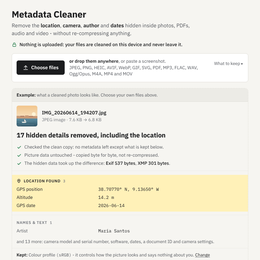
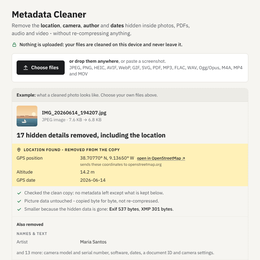
Metadata Cleaner: remove location, camera and author without re-encoding
What it does: finds the hidden details in photos (JPEG, PNG, HEIC, AVIF,
WebP, GIF), SVG, PDF, audio (MP3, FLAC, WAV, Ogg/Opus, M4A) and video (MP4,
MOV), shows them grouped by what they give away, and hands back a copy
without them.

What changed for the person using it: the old page re-encoded every image
through a canvas (lower quality, lost GIF animation, rotated pixels, colour
shift), cleaned only MP3 among audio, failed on any PDF with keywords, and
showed "No EXIF data" for every PNG, WebP and GIF that had some. Now the
metadata blocks are left out of the file structure and the picture or sound
bytes are copied unchanged; the copy is read again to prove nothing is left.
Several files at once, a zip for all, paste, drop anywhere, a worked example
on arrival, and the location shown first with a labelled map link.

Why it looks this way: a dossier being redacted. The result (what was found
and that it is gone) is the page; location gets the one highlight colour
because it is what people come for; red is kept for failures only.

Claude-Session: https://claude.ai/code/session_01PtGPtaaHkk2Yb6gvYsRFA5

diff --git a/tools/metadata_cleaner.html b/tools/metadata_cleaner.html
@@ -53,12 +53,12 @@ button, .btn { font: inherit; cursor: pointer; }
 .under { display: flex; justify-content: space-between; align-items: center; gap: 12px; margin: 6px 2px 16px; font-size: 13px; color: var(--ink-3); }
 .private { display: flex; align-items: flex-start; gap: 8px; margin: -6px 0 16px; font-size: 14.5px; font-weight: 500; color: var(--ink); }
 .private svg { width: 16px; height: 16px; flex: none; margin-top: 3px; color: var(--ok); }
-details.opts { position: relative; margin-left: auto; align-self: flex-start; font-size: 13.5px; flex: none; }
+details.opts { position: relative; margin: 18px 2px 0; font-size: 13.5px; }
 details.opts summary { cursor: pointer; color: var(--ink-2); list-style: none; padding: 6px 2px; border-radius: 4px; }
 details.opts summary::-webkit-details-marker { display: none; }
 details.opts summary::after { content: ' ▾'; font-size: 11px; }
 details.opts[open] summary::after { content: ' ▴'; }
-.optbox { position: absolute; right: 0; top: 100%; z-index: 5; width: min(340px, calc(100vw - 32px)); background: var(--card); border: 1px solid var(--rule); border-radius: 8px; padding: 12px 14px; box-shadow: 0 8px 28px rgba(0,0,0,.12); color: var(--ink); font-size: 14px; }
+.optbox { position: absolute; left: 0; top: 100%; z-index: 5; width: min(340px, calc(100vw - 32px)); background: var(--card); border: 1px solid var(--rule); border-radius: 8px; padding: 12px 14px; box-shadow: 0 8px 28px rgba(0,0,0,.12); color: var(--ink); font-size: 14px; }
 .optbox label { display: flex; gap: 10px; align-items: flex-start; padding: 6px 0; cursor: pointer; }
 .optbox input { width: 18px; height: 18px; margin: 2px 0 0; accent-color: var(--ink); flex: none; }
 .optbox small { display: block; color: var(--ink-3); font-size: 12.5px; }
@@ -103,6 +103,12 @@ details.fold[open] > summary::before { content: '− '; }
 .headline { margin: 0; font-size: 20px; line-height: 1.25; font-weight: 700; letter-spacing: -0.005em; flex: 1 1 260px; }
 .headline .loc { }
 .actions { display: flex; gap: 8px; flex: none; }
+.maphint { display: block; font-size: 12px; color: var(--ink-3); }
+.grp.location .maphint { color: var(--mark-ink); opacity: .75; }
+.maplink { font: 500 12.5px var(--sans); margin-left: 6px; white-space: nowrap; color: var(--mark-ink); }
+.groups.loc-first { border-top: 0; padding-top: 0; }
+.groups.loc-first .grp.location { margin-top: 0; }
+.unchecked { display: block; margin-top: 4px; color: var(--ink-2); font-size: 13.5px; }
 .checks { list-style: none; margin: 0; padding: 0 14px 12px; display: grid; gap: 4px; font-size: 14px; color: var(--ink-2); }
 .checks li { display: flex; gap: 8px; align-items: flex-start; }
 .checks svg { width: 16px; height: 16px; flex: none; margin-top: 3px; color: var(--ok); }
@@ -113,19 +119,21 @@ details.fold[open] > summary::before { content: '− '; }
 .groups { border-top: 1px solid var(--rule-2); padding: 4px 14px 10px; }
 .grp { padding: 10px 0 4px; }
 .grp + .grp { border-top: 1px solid var(--rule-2); }
+.gh { margin: 10px 0 0; font-size: 13px; font-weight: 600; color: var(--ink); }
 .grp h3 { margin: 0 0 6px; font-size: 12px; letter-spacing: .07em; text-transform: uppercase; color: var(--ink-3); font-weight: 600; display: flex; gap: 8px; align-items: center; }
 .grp.location h3 { color: var(--mark-ink); }
 .grp.location h3 svg { width: 14px; height: 14px; }
 .grp h3 .n { font: 500 11px var(--mono); color: var(--ink-3); letter-spacing: 0; }
-dl { margin: 0; display: grid; grid-template-columns: minmax(120px, 34%) 1fr; column-gap: 14px; row-gap: 4px; font-size: 14px; }
+dl { margin: 0; display: grid; grid-template-columns: minmax(130px, 26%) 1fr; column-gap: 14px; row-gap: 4px; font-size: 14px; }
 dt { color: var(--ink-2); }
-dd { margin: 0; font: 400 13.5px/1.5 var(--mono); color: var(--ink); overflow-wrap: anywhere; position: relative; }
+dd { margin: 0; font: 400 14px/1.5 var(--sans); color: var(--ink); overflow-wrap: anywhere; position: relative; }
 dd .v { position: relative; }
+dd { font-variant-numeric: tabular-nums; }
 .grp.location dd, .grp.location dt { color: var(--mark-ink); }
 .grp.location { background: var(--mark); margin: 8px -14px 0; padding: 10px 14px 8px; border-top: 0 !important; }
 .grp.location + .grp { border-top: 0; }
 dd .v::after { content: ''; position: absolute; left: -2px; right: -2px; top: 2px; bottom: 2px; background: var(--bar); border-radius: 2px; transform-origin: left; transform: scaleX(0); opacity: 0; }
-.fresh dd .v::after { animation: redact 1.1s cubic-bezier(.6,0,.2,1) both; animation-delay: calc(var(--i, 0) * 45ms); }
+.fresh dd .v::after { animation: redact .8s cubic-bezier(.6,0,.2,1) both; animation-delay: calc(var(--i, 0) * 45ms); }
 @keyframes redact { 0% { transform: scaleX(0); opacity: .92; } 45% { transform: scaleX(1); opacity: .92; } 70% { transform: scaleX(1); opacity: .92; } 100% { transform: scaleX(1); opacity: 0; } }
 @media (prefers-reduced-motion: reduce) { .fresh dd .v::after { animation: none; } .drop { transition: none; } }
 details.more summary { cursor: pointer; font-size: 14px; color: var(--ink-2); padding: 8px 0; list-style: none; }
@@ -163,7 +171,6 @@ footer a { color: inherit; }
     .drop { flex-direction: column; align-items: stretch; text-align: center; gap: 8px; padding: 12px; }
     .drop .pick { width: 100%; min-height: 50px; font-size: 16px; }
     .drop .hint-desk { display: none; }
-    details.opts { margin: 0 auto; align-self: center; }
     .batch .btns { width: 100%; }
     .batch #zipAll { flex: 1; }
     .headline { font-size: 18px; flex-basis: 100%; }
@@ -175,6 +182,7 @@ footer a { color: inherit; }
     .thumb { width: 52px; height: 52px; }
 }
 @media (min-width: 561px) { .hint-phone { display: none; } }
+@media (max-width: 560px) { .has-files .lede, .has-files .drop p { display: none; } .has-files .drop { flex-direction: row; } .has-files .drop .pick { width: auto; flex: 1; min-height: 46px; } }
 </style>
 </head>
 <body>
@@ -190,13 +198,6 @@ footer a { color: inherit; }
         </button>
         <p><span class="hint-desk"><b>or drop them anywhere</b>, or paste a screenshot.<br></span><span id="fmts">JPEG, PNG, HEIC, AVIF, WebP, GIF, SVG, PDF, MP3, FLAC, WAV, Ogg/Opus, M4A, MP4 and MOV</span></p>
         <input type="file" id="file" multiple hidden>
-        <details class="opts" id="opts">
-            <summary>What to keep</summary>
-            <div class="optbox">
-                <label><input type="checkbox" id="o-orient" checked><span>Keep photo orientation<small>Without it, some photos show sideways. It reveals nothing about you.</small></span></label>
-                <label><input type="checkbox" id="o-color" checked><span>Keep colour profile<small>Without it, colours can look duller. It names a colour space, not a person.</small></span></label>
-            </div>
-        </details>
     </div>
 
     <div class="batch" id="batch" aria-live="off">
@@ -205,8 +206,16 @@ footer a { color: inherit; }
     </div>
     <section id="list" aria-label="Files"></section>
     <p class="sr" id="live" aria-live="polite"></p>
+    <details class="opts" id="opts">
+            <summary>Settings: keep photo orientation and colour profile</summary>
+            <div class="optbox">
+                <label><input type="checkbox" id="o-orient" checked><span>Keep photo orientation<small>Without it, some photos show sideways. It reveals nothing about you.</small></span></label>
+                <label><input type="checkbox" id="o-color" checked><span>Keep colour profile<small>Without it, colours can look duller. It names a colour space, not a person.</small></span></label>
+            </div>
+        </details>
 
-    <details class="method"><summary><b>How it works:</b> metadata blocks are left out of the copy, the picture or sound bytes are copied unchanged.</summary><p>Each file's structure is read in your browser. Its metadata blocks (Exif, GPS, XMP, IPTC, comments, ID3 and other tags, PDF document info, comment authors and earlier revisions) are left out of the copy, and the picture or sound data is copied byte for byte, so nothing is re-compressed. The copy is then read again to check that nothing is left; you can confirm it with exiftool or your computer's file-info panel. Video and HEIC metadata is overwritten with zeros in place, so the file keeps its size. Nothing is kept after you close the page.</p></details>
+
+    <details class="method"><summary><b>How it works:</b> hidden details are left out of a copy, which is then checked again. Pictures and sound are not re-compressed; PDFs are rewritten with their pages kept.</summary><p>Each file's structure is read in your browser. Its metadata blocks (Exif, GPS, XMP, IPTC, comments, ID3 and other tags, PDF document info, comment authors and earlier revisions) are left out of the copy, and the picture or sound data is copied byte for byte, so nothing is re-compressed. The copy is then read again to check that nothing is left; you can confirm it with exiftool or your computer's file-info panel. Video and HEIC metadata is overwritten with zeros in place, so the file keeps its size. Nothing is kept after you close the page.</p></details>
     <footer>A <a href="https://www.gptgames.dev/">gptgames.dev</a> tool.</footer>
 </main>
 <script id="core">
@@ -369,7 +378,7 @@ var MetaClean = (function () {
                 var t = TAGS[tag];
                 if (t === null) continue;
                 var s = show(tag, v, type);
-                if (t) res.fields.push(F(t[0], t[1], s));
+                if (t) res.fields.push(F(t[0], tag === 0x0131 && /^\d+(\.\d+)*$/.test(s) ? 'Software version' : t[1], s));
                 else res.fields.push(F('technical', 'Tag 0x' + tag.toString(16).toUpperCase().padStart(4, '0'), s));
             }
             if (kind === 'ifd0' && p + 2 + n * 12 + 4 <= end) {
@@ -1473,11 +1482,11 @@ var MetaClean = (function () {
         if (piece) fields.push(withWhere(F('hidden', 'Private editing data (PieceInfo)', piece + ' block' + (piece > 1 ? 's' : '')), 'PDF'));
         if (imgMeta) fields.push(withWhere(F(gpsImgs ? 'location' : 'hidden', 'Photo metadata inside embedded images', imgMeta + ' image' + (imgMeta > 1 ? 's' : '') + (gpsImgs ? ', ' + gpsImgs + ' with GPS position' : '')), 'Images'));
         var raw = latin1(b, 0, b.length), eofs = (raw.match(/%%EOF/g) || []).length - (/\/Linearized/.test(raw.slice(0, 2048)) ? 1 : 0);
-        if (eofs > 1) fields.push(withWhere(F('hidden', 'Earlier saved versions still inside the file', (eofs - 1) + ' earlier version' + (eofs > 2 ? 's' : '') + ' (old text and details can be recovered)'), 'Revisions'));
+        if (eofs > 1) fields.push(withWhere(F('hidden', 'Earlier saved versions', (eofs - 1) + ' (their old text could have been recovered)'), 'Revisions'));
         if (ctx.trailerInfo.ID) fields.push(withWhere(F('hidden', 'Document ID', 'links copies of this file'), 'Trailer'));
         var notes = [];
         if (signed) notes.push('This PDF is digitally signed. Cleaning changes the file, so the signature will no longer be valid.');
-        return {fields: fields, kept: [], orientation: 0, notes: notes};
+        return {fields: fields, kept: [], orientation: 0, notes: notes, pages: doc.getPageCount()};
     }
     async function cleanPdf(b, deps) {
         var P = deps.PDFLib, doc = await pdfOpen(b, P), ctx = doc.context, N = function (n) { return P.PDFName.of(n); };
@@ -1512,6 +1521,8 @@ var MetaClean = (function () {
             if (x && x.dict instanceof P.PDFDict) stack.push(x.dict);
         }
         ctx.enumerateIndirectObjects().forEach(function (pair) { if (!keep.has(pair[0].toString())) ctx.delete(pair[0]); });
+        var top = 0; ctx.enumerateIndirectObjects().forEach(function (pair) { if (pair[0].objectNumber > top) top = pair[0].objectNumber; });
+        ctx.largestObjectNumber = top;
         var out = await doc.save({useObjectStreams: false, updateFieldAppearances: false, addDefaultPage: false});
         return out;
     }
@@ -1578,6 +1589,7 @@ var MetaClean = (function () {
     var SUPPORTED = 'photos (JPEG, PNG, HEIC, AVIF, WebP, GIF), SVG, PDF, audio (MP3, FLAC, WAV, Ogg, Opus, M4A) and video (MP4, MOV)';
     function textOf(b) { return utf8(b, 0, b.length); }
 
+    var EXTS = {jpeg: ['jpg', 'jpeg', 'jpe', 'jfif'], png: ['png', 'apng'], heic: ['heic', 'heif', 'hif'], avif: ['avif'], mp4: ['mp4', 'm4v', '3gp', '3g2'], ogg: ['ogg', 'oga', 'opus'], m4a: ['m4a', 'm4b', 'aac', 'mp4'], mov: ['mov', 'qt', 'mp4'], svg: ['svg'], webp: ['webp'], gif: ['gif'], pdf: ['pdf'], mp3: ['mp3'], flac: ['flac'], wav: ['wav', 'wave']};
     async function inspect(b, name, deps) {
         var fmt = detect(b, name);
         if (!fmt) throw Bad(whyUnsupported(b, name));
@@ -1598,8 +1610,8 @@ var MetaClean = (function () {
         }
         r.format = fmt; r.info = FORMATS[fmt]; r.notes = r.notes || [];
         var ext = String(name || '').toLowerCase().replace(/^.*\./, '');
-        var exts = {jpeg: ['jpg', 'jpeg', 'jpe', 'jfif'], heic: ['heic', 'heif', 'hif'], mp4: ['mp4', 'm4v', '3gp', '3g2'], ogg: ['ogg', 'oga', 'opus'], m4a: ['m4a', 'm4b', 'aac', 'mp4'], mov: ['mov', 'qt', 'mp4']}[fmt] || [FORMATS[fmt].ext];
-        if (name && /\./.test(name) && exts.indexOf(ext) < 0) r.notes.push('The name ends in .' + ext + ' but the file is really a ' + FORMATS[fmt].label + '. It was cleaned as ' + FORMATS[fmt].label.replace(/ \w+$/, '') + '.');
+        var exts = EXTS[fmt] || [FORMATS[fmt].ext];
+        if (name && /\./.test(name) && exts.indexOf(ext) < 0) r.notes.push('The name ends in .' + ext + ' but the file is really a ' + FORMATS[fmt].label + '. It was cleaned as ' + FORMATS[fmt].label.replace(/ \w+$/, '') + ' and the copy is named .' + FORMATS[fmt].ext + '.');
         return r;
     }
     var DEFAULTS = {keepOrientation: true, keepColor: true};
@@ -1629,7 +1641,7 @@ var MetaClean = (function () {
         var leftover = after.fields.filter(function (f) { return f.label !== 'Orientation'; });
         return {
             format: before.format, info: before.info, input: b.length, output: out, bytes: out,
-            removed: before.fields, kept: kept, pieces: breakdown(b, before.format, opt), left: leftover, gps: before.gps || null, notes: before.notes.concat(after === null ? [] : []),
+            removed: before.fields, kept: kept, pages: before.pages ? [before.pages, after.pages] : null, pieces: breakdown(b, before.format, opt), left: leftover, gps: before.gps || null, notes: before.notes.concat(after === null ? [] : []),
             changed: out.length !== b.length || !sameBytes(out, b)
         };
     }
@@ -1695,6 +1707,8 @@ var MetaClean = (function () {
     function cleanName(name, fmt) {
         name = String(name || 'file');
         var m = /^(.*?)(\.[^.]*)?$/.exec(name), base = m[1] || 'file', ext = m[2] || (fmt && FORMATS[fmt] ? '.' + FORMATS[fmt].ext : '');
+        // a file whose extension lies about its content gets the right one, so it opens everywhere
+        if (fmt && FORMATS[fmt] && m[2] && EXTS[fmt] && EXTS[fmt].indexOf(m[2].slice(1).toLowerCase()) < 0) ext = '.' + FORMATS[fmt].ext;
         return 'clean_' + base + ext;
     }
     function zip(files) {
@@ -1818,7 +1832,7 @@ var MetaClean = (function () {
                 .then(function (r) {
                     var out = r.output.buffer.byteLength === r.output.length ? r.output : r.output.slice();
                     var same = MetaClean.sameImage(b, out, r.format);
-                    self.postMessage({id: m.id, ok: true, r: {format: r.format, info: r.info, input: r.input, removed: r.removed, kept: r.kept, left: r.left, notes: r.notes, changed: r.changed, same: same, gps: r.gps, pieces: r.pieces}, out: out.buffer}, [out.buffer]);
+                    self.postMessage({id: m.id, ok: true, r: {format: r.format, info: r.info, input: r.input, removed: r.removed, kept: r.kept, left: r.left, notes: r.notes, changed: r.changed, same: same, gps: r.gps, pieces: r.pieces, pages: r.pages}, out: out.buffer}, [out.buffer]);
                 })
                 .catch(function (e) { self.postMessage({id: m.id, ok: false, error: e && e.userFacing ? e.message : 'This file could not be read - it may be damaged. (' + (e && e.message || e) + ')', userFacing: !!(e && e.userFacing)}); });
         };
@@ -1858,7 +1872,7 @@ var MetaClean = (function () {
         if (!example) items.filter(function (x) { return x.example; }).forEach(remove);
         // a second file arrives: fold the cards already shown, so a list of files stays a list
         if (!example && items.filter(function (x) { return !x.example; }).length === 2) items.forEach(function (x) { if (x !== it && x.result && x.out) done(x, false); });
-        working(it, 'Reading…');
+        working(it, file.size > 20e6 ? 'Opening ' + MetaClean.kb(file.size) + '…' : 'Reading…');
         file.arrayBuffer().then(function (buf) { it.input = buf; run(it, true); }, function () {
             failed(it, file.size > 1.5e9 ? 'This file is too large for your browser to open (' + MetaClean.kb(file.size) + '). Try a desktop browser with more memory.' : 'This file could not be opened.');
         });
@@ -1877,8 +1891,9 @@ var MetaClean = (function () {
     function run(it, fresh) {
         var id = ++seq, copy = it.input.slice(0);
         it.job = id;
-        var slow = setTimeout(function () { if (it.job === id && !it.result) working(it, 'Cleaning…', true); }, 250);
-        if (!it.result) working(it, 'Cleaning…', false);
+        var big = it.input.byteLength > 20e6, msg = big ? 'Cleaning ' + MetaClean.kb(it.input.byteLength) + ' - usually a few seconds…' : 'Cleaning…';
+        var slow = setTimeout(function () { if (it.job === id && !it.result) working(it, msg, true); }, 250);
+        if (!it.result) working(it, msg, big);
         jobs[id] = {
             stage: function (s) { if (it.job === id) working(it, s, true); },
             ok: function (m) {
@@ -1901,7 +1916,12 @@ var MetaClean = (function () {
     function esc(s) { return String(s).replace(/[&<>"']/g, function (c) { return {'&': '&amp;', '<': '&lt;', '>': '&gt;', '"': '&quot;', "'": '&#39;'}[c]; }); }
     function head(it, fmtLabel) {
         var r = it.result, meta = esc(fmtLabel || '');
-        if (r) meta = '<span>' + esc(r.info.label) + '</span> · <span>' + esc(MetaClean.kb(r.input) + (it.out && it.out.length !== r.input ? ' → ' + MetaClean.kb(it.out.length) : '')) + '</span>';
+        if (r) {
+            var a = MetaClean.kb(r.input), b2 = it.out ? MetaClean.kb(it.out.length) : '', size = a;
+            if (it.out && it.out.length !== r.input) size = a + ' → ' + b2 + (a === b2 ? ' (' + MetaClean.kb(Math.abs(r.input - it.out.length)) + (it.out.length < r.input ? ' less' : ' more') + ')' : '');
+            else if (it.out) size = a + ' → ' + a + (r.removed.length ? ' (details blanked in place)' : '');
+            meta = '<span>' + esc(r.info.label) + '</span> <span>· ' + esc(size) + '</span>';
+        }
         else if (it.size) meta = esc(MetaClean.kb(it.size));
         var kind = r ? r.info.kind : 'file', ext = esc(((r && r.info.ext) || (it.name.indexOf('.') > 0 ? it.name.split('.').pop() : 'file')).slice(0, 4));
         var thumb = '<div class="thumb' + (it.thumbUrl ? ' img' : '') + '" aria-hidden="true">' + (it.thumbUrl ? '<img alt="" src="' + it.thumbUrl + '">' : (GLYPH[kind] || GLYPH.file) + '<span class="ext">' + ext + '</span>') + '</div>';
@@ -1931,7 +1951,7 @@ var MetaClean = (function () {
         it.el.className = 'card failed';
         if (!it.example) list.appendChild(it.el);
         it.el.removeAttribute('aria-busy');
-        it.el.innerHTML = head(it) + '<p class="err" role="alert"><b>Not cleaned.</b> ' + esc(msg) + '</p>';
+        it.el.innerHTML = head(it) + '<p class="err" role="alert"><b>Not cleaned.</b> ' + esc(msg) + (/cancel/i.test(msg) ? '' : ' <span class="unchecked">Its hidden details, if any, are still in it' + (items.filter(function (x) { return !x.example; }).length > 1 ? ', and it is not in the zip' : '') + '.</span>') + '</p>';
         bind(it);
         announce(it.name + ': not cleaned. ' + msg);
         batch();
@@ -1958,37 +1978,41 @@ var MetaClean = (function () {
         it.url = URL.createObjectURL(blob);
         it.outName = MetaClean.cleanName(it.name, r.format);
         if (r.info.kind === 'image' && !it.thumbUrl && r.format !== 'heic') it.thumbUrl = URL.createObjectURL(new Blob([it.out], {type: mime}));
-        var groups = '', locGroup = '', i = 0, moreN = 0;
+        var groups = '', locGroup = '', i = 0, moreN = 0, groupsHead = false;
         var many = items.filter(function (x) { return !x.example; }).length > 1;
         CATS.forEach(function (c) {
             var fs = removed.filter(function (f) { return f.cat === c[0]; });
             if (it.example && fs.length && c[0] !== 'location' && c[0] !== 'people') { moreN += fs.length; return; }
             if (!fs.length) return;
             var rows = fs.map(function (f) {
-                return '<dt>' + esc(f.label) + '</dt><dd><span class="v" style="--i:' + (i++) + '">' + (f.value ? esc(f.value) : '<span aria-hidden="true">present</span><span class="sr">present</span>') + '</span></dd>';
+                var map = '';
+                if (f.label === 'GPS position' && r.gps && f.value.indexOf('°') > 0) map = ' <a class="maplink" href="https://www.openstreetmap.org/?mlat=' + r.gps.lat.toFixed(5) + '&amp;mlon=' + r.gps.lon.toFixed(5) + '#map=15/' + r.gps.lat.toFixed(5) + '/' + r.gps.lon.toFixed(5) + '" target="_blank" rel="noopener noreferrer" title="Opens openstreetmap.org in a new tab - only these coordinates are sent, and only if you click">open in OpenStreetMap ↗</a><span class="maphint">sends these coordinates to openstreetmap.org</span>';
+                var mono = c[0] === 'location' || c[0] === 'time' || /serial|ID$|ID\b|identifier/i.test(f.label) || /^[-+0-9A-Fa-f:.,°\s\/]+( ?[NSEW]|UTC| m| s| mm)?[\s,0-9.°NSEW]*$/.test(f.value);
+                return '<dt>' + esc(f.label) + '</dt><dd' + (mono ? ' class="mono"' : '') + '><span class="v" style="--i:' + (i++) + '">' + (f.value ? esc(f.value) : '<span aria-hidden="true">present</span><span class="sr">present</span>') + '</span>' + map + '</dd>';
             }).join('');
             var body = '<dl>' + rows + '</dl>';
-            if (c[0] === 'location') { locGroup = '<div class="grp location"><h3>' + PIN + 'Location found <span class="n">' + fs.length + '</span></h3>' + body + '</div>'; return; }
+            if (c[0] === 'location') { locGroup = '<div class="grp location"><h3>' + PIN + 'Location found - removed from the copy</h3>' + body + '</div>'; return; }
             if (c[0] === 'technical' || (c[0] === 'hidden' && fs.length > 6)) {
-                groups += '<div class="grp ' + c[0] + '"><details class="more"><summary>' + esc(c[1]) + ' <span class="n">' + fs.length + '</span></summary>' + body + '</details></div>';
-            } else groups += '<div class="grp ' + c[0] + '"><h3>' + esc(c[1]) + ' <span class="n">' + fs.length + '</span></h3>' + body + '</div>';
+                groups += '<div class="grp ' + c[0] + '"><details class="more"><summary>' + esc(c[1]) + ' (' + fs.length + ')</summary>' + body + '</details></div>';
+            } else groups += '<div class="grp ' + c[0] + '"><h3>' + esc(c[1]) + '</h3>' + body + '</div>';
+            if (!groupsHead) groupsHead = true;
         });
         if (it.example && moreN) groups += '<p class="kept" style="border:0;padding:8px 0 0">and ' + moreN + ' more: camera model and serial number, software, dates, a document ID and camera settings.</p>';
         var locN = removed.filter(function (f) { return f.cat === 'location'; }).length;
-        if (groups && many && !it.example) groups = '<details class="fold"><summary>Show ' + (locN ? 'the other ' + (n - locN) : 'the ' + n) + ' removed detail' + (n - locN > 1 ? 's' : '') + '</summary><div class="groups">' + groups + '</div></details>';
-        else if (groups) groups = '<div class="groups">' + groups + '</div>';
-        if (locGroup) groups = '<div class="groups">' + locGroup + '</div>' + groups;
+        if (groups && many && !it.example) groups = '<details class="fold"><summary>Show ' + (locN ? 'the other ' + (n - locN) : 'the ' + n) + ' removed detail' + (n - locN > 1 ? 's' : '') + '</summary><div class="groups"><p class="gh">Removed from the clean copy</p>' + groups + '</div></details>';
+        else if (groups) groups = '<div class="groups">' + (groupsHead ? '<p class="gh">' + (locGroup ? 'Also removed' : 'Removed from the clean copy') + '</p>' : '') + groups + '</div>';
+        var locHtml = locGroup ? '<div class="groups loc-first">' + locGroup + '</div>' : '';
         var checks = [];
         if (r.left.length) checks.push('<li class="warn">' + ICON_WARN + '<span>Checked the clean copy: ' + r.left.length + ' item' + (r.left.length > 1 ? 's' : '') + ' could not be removed (' + esc(r.left.map(function (f) { return f.label; }).slice(0, 3).join(', ')) + ').</span></li>');
         else if (n) checks.push('<li>' + ICON_OK + '<span>Checked the clean copy: no metadata left' + (r.kept.length ? ' except what is kept below' : '') + '.</span></li>');
         var what = r.info.kind === 'image' ? 'Picture' : r.info.kind === 'audio' ? 'Sound' : r.info.kind === 'video' ? 'Video and sound' : 'Pages and text';
         if (r.same === true || (/^(heic|avif|mp4|mov|m4a|ogg|wav)$/.test(r.format)))
             checks.push('<li>' + ICON_OK + '<span>' + what + ' data untouched - copied byte for byte, not re-compressed.' + '' + '</span></li>');
-        else if (r.format === 'pdf' && n) checks.push('<li>' + ICON_OK + '<span>Pages, text and images kept; only hidden details were taken out.</span></li>');
-        if (r.pieces && r.pieces.length && it.out.length < r.input) checks.push('<li class="pieces">' + ICON_OK + '<span>' + (it.out.length < r.input * 0.8 ? 'Much smaller, because the' : 'The') + ' hidden data took up the difference: ' + r.pieces.slice(0, 4).map(function (p) { return '<b>' + esc(p.label) + ' ' + MetaClean.kb(p.bytes) + '</b>'; }).join(', ') + (r.pieces.length > 4 ? ', …' : '') + '.</span></li>');
+        else if (r.format === 'pdf' && n) checks.push('<li>' + ICON_OK + '<span>' + (r.pages ? (r.pages[0] === r.pages[1] ? r.pages[0] + ' page' + (r.pages[0] > 1 ? 's' : '') + ' in, ' + r.pages[1] + ' out' : r.pages[0] + ' pages in, ' + r.pages[1] + ' out') + ' - same text and images; only hidden details were taken out.' : 'Pages, text and images kept.') + (it.out.length < r.input * 0.9 ? ' Smaller because the file was rewritten without them and without earlier saved versions.' : '') + '</span></li>');
+        if (r.pieces && r.pieces.length && it.out.length < r.input * 0.9) checks.push('<li class="pieces">' + ICON_OK + '<span>' + 'Smaller because the hidden data is gone: ' + r.pieces.slice(0, 4).map(function (p) { return '<b>' + esc(p.label) + ' ' + MetaClean.kb(p.bytes) + '</b>'; }).join(', ') + (r.pieces.length > 4 ? ', …' : '') + '.</span></li>');
         r.notes.forEach(function (t) { checks.push('<li class="warn">' + ICON_WARN + '<span>' + esc(t) + '</span></li>'); });
         var kept = '';
-        if (r.kept.length) kept = '<p class="kept"><b>Kept:</b> ' + r.kept.map(function (k) { return esc(k.label) + ' <code>(' + esc(k.value) + ')</code>'; }).join(' · ') +
+        if (r.kept.length) kept = '<p class="kept"><b>Kept:</b> ' + r.kept.map(function (k) { return esc(k.label) + ' (' + esc(k.value) + ')'; }).join(' · ') +
             ' - ' + (r.format === 'heic' || r.format === 'avif' ? 'part of the image itself, not about you.' : (r.kept.length > 1 ? 'they control' : 'it controls') + ' how the picture looks and ' + (r.kept.length > 1 ? 'say' : 'says') + ' nothing about you. <button type="button" class="linkbtn" data-opts>Change</button>') + '</p>';
         var canShare = false;
         try { canShare = !!(navigator.canShare && /Android|iPhone|iPad|Mobile/i.test(navigator.userAgent) && navigator.canShare({files: [new File([blob], it.outName, {type: mime})]})); } catch (e) {}
@@ -2000,9 +2024,15 @@ var MetaClean = (function () {
             (it.example ? '' :
             '<a class="btn' + (many ? ' ghost' : '') + '" href="' + it.url + '" download="' + esc(it.outName) + '" title="' + esc(it.outName) + '">' + ICON_DL + label + '</a>') +
             (canShare && !it.example ? '<button class="btn ghost" type="button" data-share>' + ICON_SHARE + 'Share</button>' : '') + (it.example ? '' : '</div>') + '</div>' +
-            (checks.length ? '<ul class="checks">' + checks.join('') + '</ul>' : '') +
+            locHtml + (checks.length ? '<ul class="checks">' + checks.join('') + '</ul>' : '') +
             groups + kept;
         bind(it);
+        var dl = it.el.querySelector('.actions a.btn');
+        if (dl) dl.addEventListener('click', function () {
+            var keep = dl.innerHTML; dl.innerHTML = ICON_OK + 'Saved as ' + esc(it.outName.length > 26 ? it.outName.slice(0, 24) + '…' : it.outName);
+            announce('Saved as ' + it.outName);
+            setTimeout(function () { if (dl.isConnected) dl.innerHTML = keep; }, 3500);
+        });
         var s = it.el.querySelector('[data-share]');
         if (s) s.onclick = function () { navigator.share({files: [new File([it.out], it.outName, {type: mime})]}).catch(function () {}); };
         var o = it.el.querySelector('[data-opts]');
@@ -2014,6 +2044,8 @@ var MetaClean = (function () {
     function batch() {
         var real = items.filter(function (x) { return !x.example; }), ready = real.filter(function (x) { return x.out; });
         $('batch').classList.toggle('on', real.length > 1);
+        document.body.classList.toggle('has-files', real.length > 0);
+        $('pick').lastChild.textContent = real.length ? ' Add files' : ' Choose files';
         var n = 0; ready.forEach(function (x) { n += dedupe(x.result.removed).length; });
         var bad = real.filter(function (x) { return x.el.classList.contains('failed'); }).length;
         $('batchText').innerHTML = real.length + ' files · ' + n + ' details removed' + (bad ? ' · <button type="button" class="linkbtn bad" data-bad>' + bad + ' not cleaned</button>' : '');
